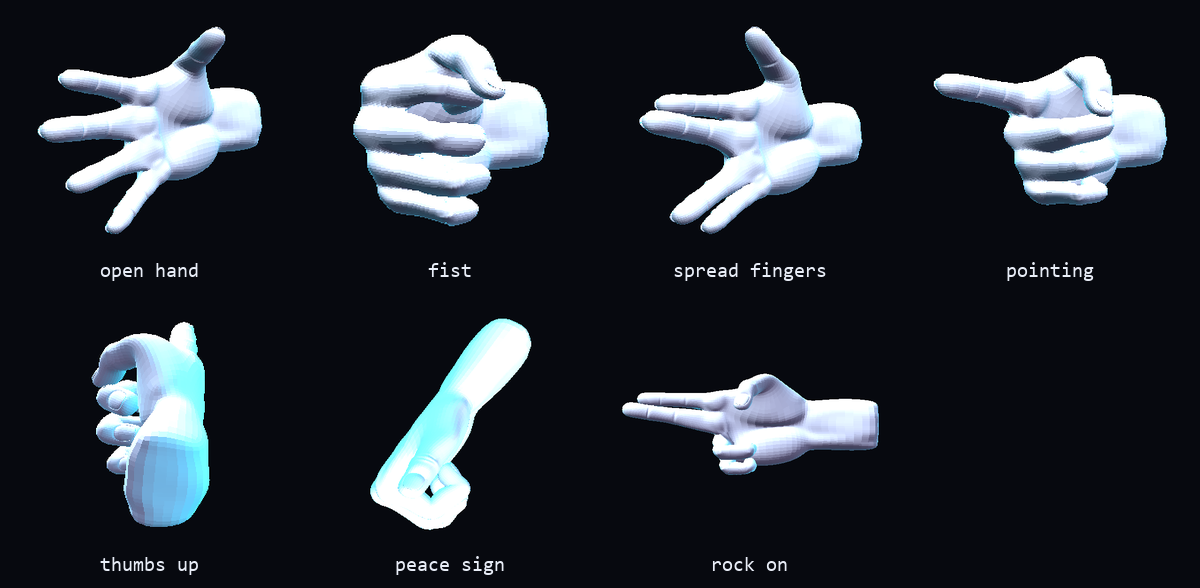
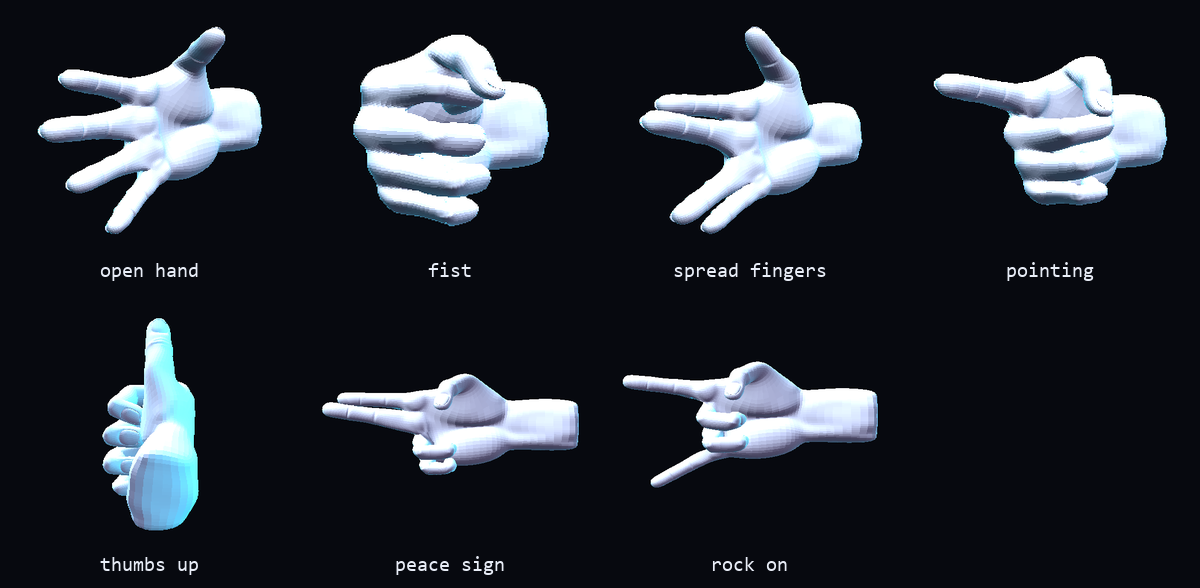
hand3d: corrige ordem update/skeleton que embaralhava as poses extras
Bug real (nao so angulo de camera ruim, como eu tinha concluido errado):
montarPoseCustom() chamava malha.skeleton.update() ANTES de
cena.updateMatrixWorld(true). Skeleton.update() so LE bone.matrixWorld, nao
recalcula nada — sem o updateMatrixWorld antes, cada pose extra saia com a
matrizWorld que ainda estava "presa" na ULTIMA pose que de fato rodou um
updateMatrixWorld, nao com os quaternions que tinham acabado de ser setados.

Resultado: ThumbsUp saia byte-a-byte igual a Pointing (confirmado com
np.allclose no cache), e Peace/RockOn saiam defasados por uma posicao.
Corrigido invertendo a ordem, igual ao loop das 4 poses reais (que ja
fazia certo). gestures.png regerado com as 7 poses corretas.

Changed region(s): [[0.2467, 0.5204, 0.74, 0.9184], [0.0617, 0.5204, 0.185, 0.9184]]

diff --git a/hand3d/web/hand.js b/hand3d/web/hand.js
@@ -291,8 +291,14 @@
       });
     });
 
-    malha.skeleton.update();
+    // ORDEM IMPORTA: updateMatrixWorld tem que vir antes de skeleton.update().
+    // Skeleton.update() so LE bone.matrixWorld (nao recalcula nada) — sem
+    // isto aqui antes, ele usa a matrizWorld de QUALQUER pose anterior que
+    // tenha rodado por ultimo, nao os quaternions que acabamos de setar.
+    // (bug real: sem isto, cada pose custom saia com a forma da anterior —
+    // ThumbsUp saia igual a Pointing, Peace igual ao ThumbsUp certo, etc.)
     cena.updateMatrixWorld(true);
+    malha.skeleton.update();
   }
 
   /* Calcula {position_f32, normal_f32} de uma pose custom, pronto pra
